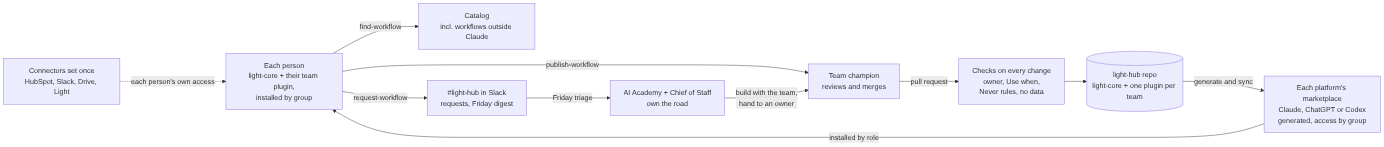
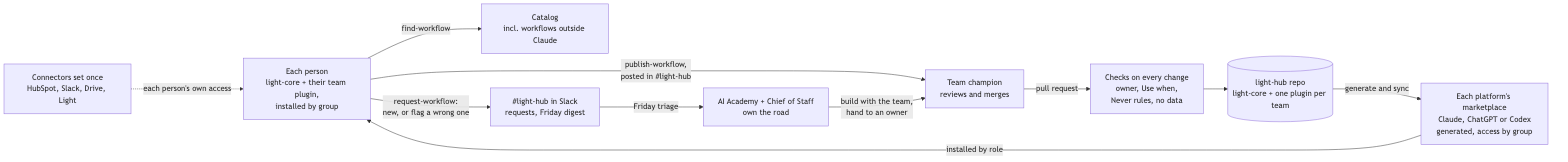
Company-wide rollout: team map, governance, rhythm and measures
Hidden plugins are now left out of Claude's marketplace too, Legal &
Compliance co-review hub.json (connectors and access), and the team list
follows Light's job board. Re-rendered diagrams. docs/company-rollout.md
covers what going company-wide takes and what it deliberately does not.

diff --git a/scripts/hub.js b/scripts/hub.js
@@ -11,7 +11,8 @@ const fs = require('fs');
 const path = require('path');
 
 const ROOT = path.resolve(__dirname, '..');
-const TEAMS = ['sales', 'partners', 'customer-success', 'marketing', 'operations', 'finance', 'people', 'legal'];
+// Light's teams as its job board names them (GTM, Tech, Operations departments).
+const TEAMS = ['sales', 'partners', 'marketing', 'customer-success', 'services', 'operations', 'finance', 'people', 'legal', 'product', 'engineering'];
 // 'personal' is not a repo status: a personal skill lives in that person's own Claude. Entering the repo makes it a draft.
 const STATUS = ['draft', 'team', 'company', 'retired'];
 const CATALOG = path.join(ROOT, 'plugins/light-core/skills/find-workflow/references/catalog.md');
@@ -109,7 +110,9 @@ function outputs() {
   // Claude: private organisation marketplace. Who gets what is set by group in Claude's admin settings.
   files['.claude-plugin/marketplace.json'] = json({
     name: h.name, owner: { name: h.owner }, metadata: { description: h.description },
-    plugins: h.plugins.map(p => ({ name: p.name, source: `./plugins/${p.name}`, description: p.description })),
+    // A hidden plugin is not listed, so no platform delivers it. Hidden is not secret: anyone who can read the repo can
+    // install any skill. That is acceptable because workflows hold procedure, never data.
+    plugins: h.plugins.filter(p => p.install !== 'hidden').map(p => ({ name: p.name, source: `./plugins/${p.name}`, description: p.description })),
   });
   // ChatGPT and Codex: repository marketplace.
   files['.agents/plugins/marketplace.json'] = json({
@@ -120,6 +123,8 @@ function outputs() {
   files['.github/CODEOWNERS'] = [
     '# Generated by scripts/hub.js build from hub.json. Do not edit by hand.',
     '* @' + h.maintainer,
+    // hub.json decides connectors and who gets what, so Legal & Compliance review every change to it.
+    `/hub.json @${h.maintainer} @${h.compliance}`,
     ...h.plugins.map(p => `/plugins/${p.name}/ @${p.champion}`),
     '',
   ].join('\n');
@@ -138,6 +143,7 @@ function check() {
   const problems = stale().map(f => `${f}: out of date, run "node scripts/hub.js build"`);
   const h = hub();
   if (!h.maintainer) problems.push('hub.json: missing maintainer (GitHub handle of the hub owner)');
+  if (!h.compliance) problems.push('hub.json: missing compliance (GitHub team that reviews connectors and access)');
   for (const p of h.plugins) if (!p.champion) problems.push(`hub.json "${p.name}": missing champion (GitHub handle)`);
   const names = new Set();
   for (const s of skills()) {

diff --git a/test/hub.test.js b/test/hub.test.js
@@ -73,7 +73,7 @@ test('each plugin carries the portable core and Claude\'s manifest, and both mar
     assert.match(portable.$schema, /agent-plugins\.org/);
     assert.strictEqual(portable.name, p.name);
     assert.ok(fs.existsSync(path.join(root, 'plugins', p.name, '.claude-plugin/plugin.json')));
-    assert.ok(claude.plugins.some(x => x.name === p.name));
+    assert.strictEqual(claude.plugins.some(x => x.name === p.name), p.install !== 'hidden', `${p.name} listed for Claude`);
     assert.ok(agents.plugins.some(x => x.name === p.name && x.source.path === `./plugins/${p.name}`));
   }
 });

diff --git a/docs/company-rollout.md b/docs/company-rollout.md
@@ -1,0 +1,126 @@
+# Taking light-hub company-wide
+
+What it takes to go from one Sales pod to all of Light, and what it deliberately does not take. Facts about Light
+come from public sources (job board, trust centre, DPA, press) as of November 2026. Anything inferred is marked.
+
+## What Light looks like
+
+- **About 150 people in three departments.** The job board lists GTM, Tech and Operations, with teams for
+  Engineering, Marketing, Customer Success, People and Operations. Light has offices in London, Copenhagen and
+  Stockholm, plus Country Executives in France, the Netherlands, Germany and Italy.
+- **Hiring is mostly GTM.** 22 of the 28 open roles are in GTM: AEs, BDRs, account managers, solutions engineers,
+  implementation, support, partner sales and regional marketing, most of them in London. New joiners are where the
+  hub pays off first.
+- **People already use several AI tools.** New hires get Claude, Codex, Lovable and Noon from day one. AI Academy
+  members get "all the AI tools on the market". HubSpot is the CRM, Slack is used internally, Ashby runs
+  recruiting, and engineering works in GitHub.
+- **Compliance.** Light holds SOC 2 Type II and SOC 1 Type II. Its DPA lists OpenAI and Google as AI
+  sub-processors; Anthropic is not listed.
+- **Light's own engineering rule:** "Every fix requires explicit human approval. Silence is never treated as
+  consent."
+
+## The five things company-wide means
+
+### 1. One plugin per team, following Light's own team map
+
+| Plugin | People | Champion | Wave |
+| --- | --- | --- | --- |
+| light-core | everyone | AI Academy | now |
+| light-sales | AEs, BDRs, account managers, solutions engineers, Country Executives | Sales | 1 |
+| light-partners | partner sales, partner solutions engineering | Partnerships | 2 |
+| light-customer-success | support, agentic customer engineers, implementation, data migration | Customer Success | 2 |
+| light-marketing | growth, product and regional marketing | Marketing | 2 |
+| light-finance | Finance, and anyone asking Finance | Finance | 3 |
+| light-people | talent and people ops (Ashby) | People | 3 |
+| light-legal | legal and compliance | Legal & Compliance | 3 |
+
+- **A plugin is created when its first workflow reaches `draft`, never before.** Empty plugins are noise.
+- **Engineering and Product get light-core only.** They already work in Claude Code and Codex, with skills in
+  their own repositories.
+- **Regions are not plugins.** A DACH or Nordics difference, such as language, entity or currency, is a step
+  inside the workflow ("if the contact is in DACH, write in German"). That keeps it at 8 plugins rather than 30.
+
+### 2. Delivery on every tool people actually have
+
+- **Claude:** organisation marketplace synced from this repository, with access by group.
+- **Codex:** `.agents/plugins/marketplace.json`, with install policy from `hub.json`.
+- **Everything else:** `npx skills add <repo>` (the Vercel `skills` CLI) installs the same skills into 70+
+  agents. It was checked against this private repo: it found all 9 skills using the existing git login.
+- **Groups mirror the job board's teams.** They are set once in each platform's admin; the repo does not store
+  them.
+
+### 3. Governance: who decides what
+
+| Decision | Who | How |
+| --- | --- | --- |
+| Use a workflow for yourself | anyone | it stays in your own AI tool |
+| Add a workflow to a team as `draft` | the team's champion | pull request; CODEOWNERS requires their review |
+| `draft` → `team` | the champion | two colleagues confirm it worked on a real case. Explicit replies, never silence |
+| `team` → `company` | AI Academy | review against the rules and the evals |
+| New connector, or a change to who gets what | AI Academy **and** Legal & Compliance | both review every change to `hub.json` (generated CODEOWNERS) |
+| Retire a workflow | owner or champion | Friday triage |
+| What gets built next | Chief of Staff with the AI Academy | Friday triage of #light-hub |
+
+Rules that apply everywhere:
+- **Workflows draft; people act.** A workflow never sends, posts, pays or writes to HubSpot or Light without the
+  person approving that action. Every current workflow says so in its `## Never` section, and reviewers check
+  for it. This is Light's own rule for its software: silence is never consent.
+- **Procedure, never data.** The check rejects email addresses, amounts and account numbers.
+- **Hidden is not secret.** A hidden plugin is not delivered on any platform, but anyone who can read the
+  repository can install any skill. The only real access gate is access to the repo. That is acceptable because
+  of the previous rule. A procedure that is itself confidential belongs in a separate, restricted repository.
+- **Customer data goes through Legal first.** A workflow that would send *customers'* data to an AI provider
+  (for example support tickets, or a customer's ledger through the Light connector) needs Legal to confirm that
+  provider is covered by Light's DPA. Light's own data (prospects in HubSpot, Light's own books) falls under the
+  employee-tool agreements; Legal confirms that once.
+
+### 4. Rhythm
+
+| When | What | Time |
+| --- | --- | --- |
+| Every Friday | AI Academy and Chief of Staff triage #light-hub requests and flags; retire what nobody uses | 20 minutes |
+| Before a merge into a team plugin | the champion runs that team's eval bundle (`node scripts/hub.js bundles`, then `claude plugin eval`) | about USD 2 |
+| Monthly | champions meet for 30 minutes; full eval run across all bundles; words from every missed search go into descriptions | about USD 9 |
+| Each new wave | the AI Academy pairs with the new champion for the first three workflows | one week |
+
+### 5. Measures
+
+Each measure checks whether knowledge moved, not just whether the AI tools were used.
+- **New-joiner time to first hub workflow.** GTM hires about 20 people per quarter, so this moves quickly.
+- **Share of each team that ran a team workflow this week.** Claude Enterprise analytics count use per plugin and
+  per group; Codex use is reported by people.
+- **Requests and flags closed within two weeks.**
+- **Eval pass rate per bundle.** The first run was 41 of 48 cases. After the fixes, all eight changed or failing
+  cases passed.
+
+## What it deliberately does not take
+
+- **A self-hosted agent platform** (Dust, LibreChat, Open WebUI). These give companies a place to share
+  assistants when their AI vendors don't. Light's vendors now do, and the governance maps across:
+  - Dust's "publish agents" permission is the champion's merge.
+  - LibreChat's admin-approved MCP servers are the Legal-reviewed `hub.json`.
+- **Backstage.** Two ideas are borrowed from it: every entry has an owner and a lifecycle stage, and the catalog
+  is generated from files next to the work.
+- **Per-region plugins, a usage-tracking service, automatic promotion or retirement, a Slack bot.**
+
+## Open-source references
+
+- [Agent Plugins spec](https://github.com/agentplugins/agent-plugins-spec): our generated `plugin.json` and
+  `mcp.json` files pass the official 1.0.0 schemas. Stay on 1.0.0: Codex accepts only 1.0.0, and 1.1.0 is still
+  a draft.
+- [vercel-labs/skills](https://github.com/vercel-labs/skills): proof that a repo like this one installs into
+  most agents. Note that it ignores install policy.
+- [Dust](https://dust.tt): the self-hosted route not taken.
+- [Backstage software catalog](https://backstage.io/docs/features/software-catalog/descriptor-format/): owner and
+  lifecycle.
+
+## To confirm in week one
+
+1. **Who owns the hub.** The Chief of Staff to the CEO and the Head of Finance & Operations: who owns the
+   roadmap, and who is the AI Academy lead.
+2. **Which plans Light has.** Claude Team or Enterprise, and Codex/ChatGPT Business or Enterprise. Analytics per
+   plugin need Claude Enterprise.
+3. **Whether Anthropic should be added to the DPA,** or whether customer-data workflows stay on OpenAI or Google.
+4. **The real champion for each wave-1 and wave-2 team,** replacing the `light-inc/*` placeholders in `hub.json`.
+5. **Whether Light runs on Google Workspace or Microsoft 365.** This is inferred to be Google Workspace and not
+   confirmed. It decides the Drive connector.

diff --git a/README.md b/README.md
@@ -13,6 +13,9 @@ teams in `hub.json`, and outside-Claude entries marked EXAMPLE or "named in week
 | light-partners | Partnerships | partner-referral-intake (Part 1) |
 | light-finance | Finance; draft, not distributed yet | pricing-approval-memo, plus the Light connector |
 
+How this goes from one Sales pod to all of Light (team map, governance, rhythm, measures):
+[docs/company-rollout.md](docs/company-rollout.md).
+
 `catalog/outside-claude.json` lists workflows that run elsewhere (HubSpot workflows, n8n, Light's own agents),
 so `find-workflow` can point to them too.
 
@@ -29,6 +32,10 @@ everything else:
 | `.claude-plugin/marketplace.json` | Claude private organisation marketplaces |
 | `.agents/plugins/marketplace.json` | ChatGPT and Codex repository marketplaces, with install policy from `hub.json` |
 | `.github/CODEOWNERS` | GitHub: each team's champion must approve changes to their plugin |
+
+A `hidden` plugin is left out of every marketplace, so no platform delivers it. Hidden is not secret: anyone who
+can read the repository can install any skill (for example with `npx skills add`), which is why workflows hold
+procedure, never data.
 
 Adding a platform means adding one writer to `scripts/hub.js`. The skills, owners and rules do not change.
 The Claude packaging passes Claude Code's validator. The manifests deliberately carry no `version`: a set version
